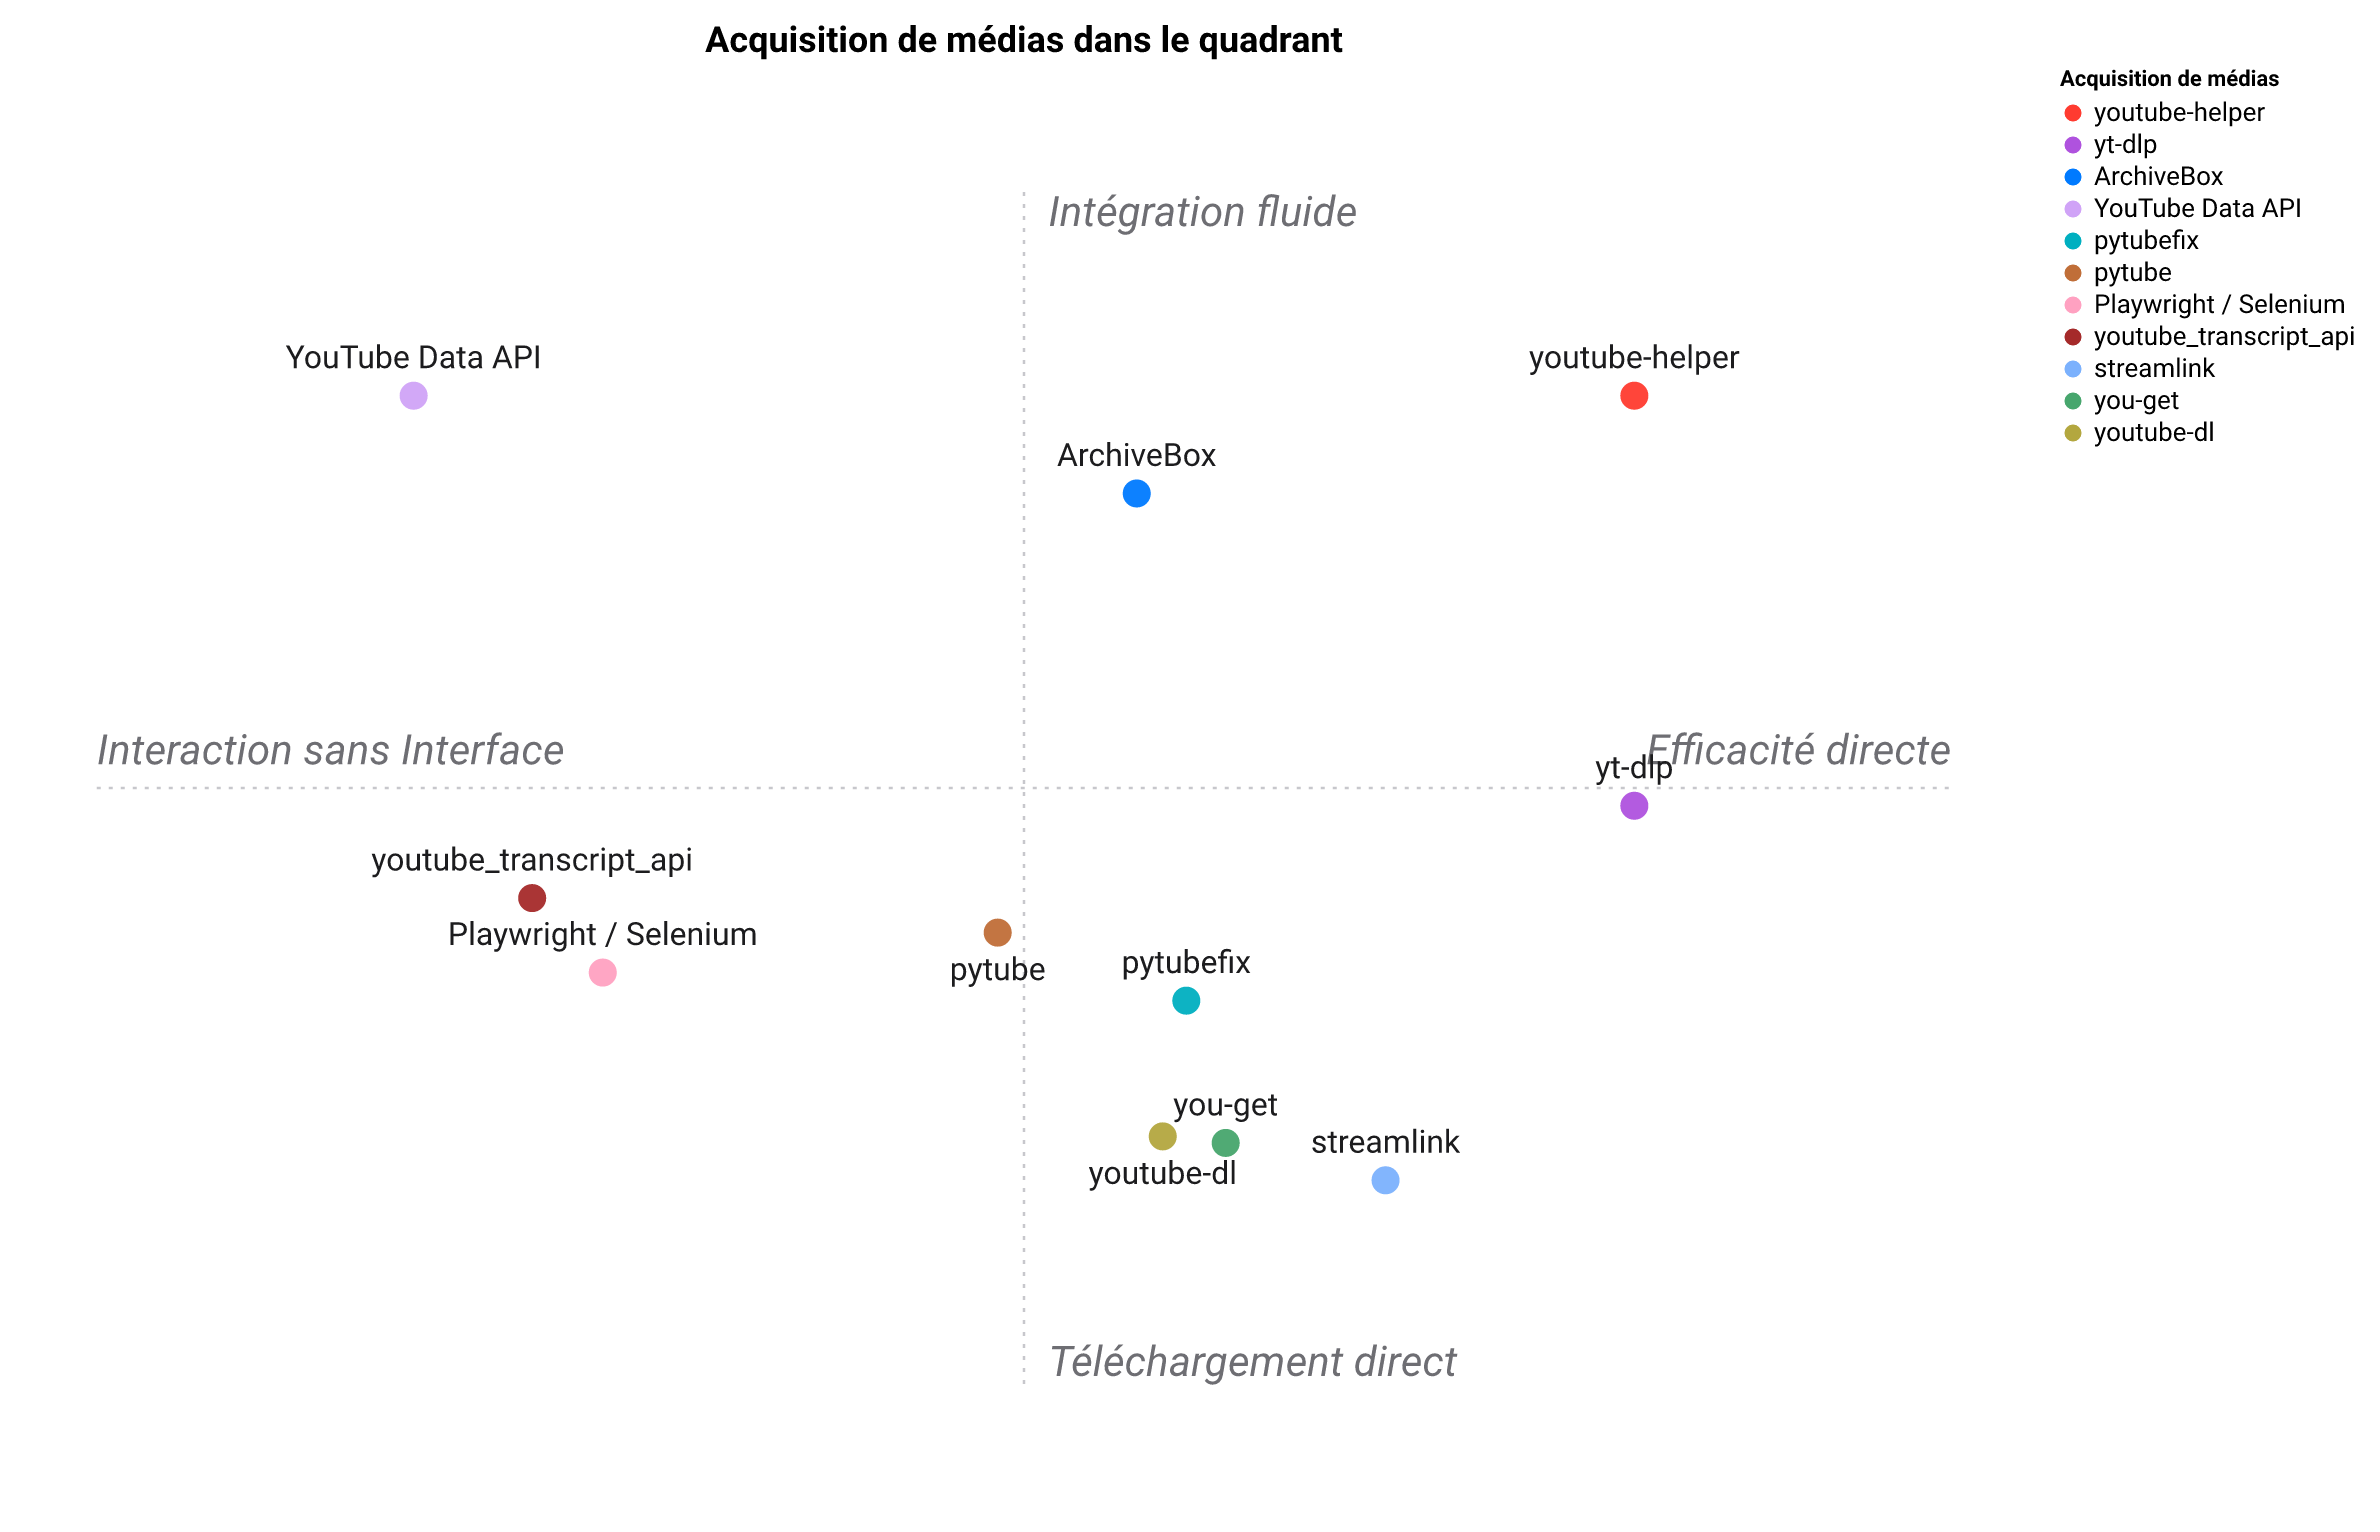
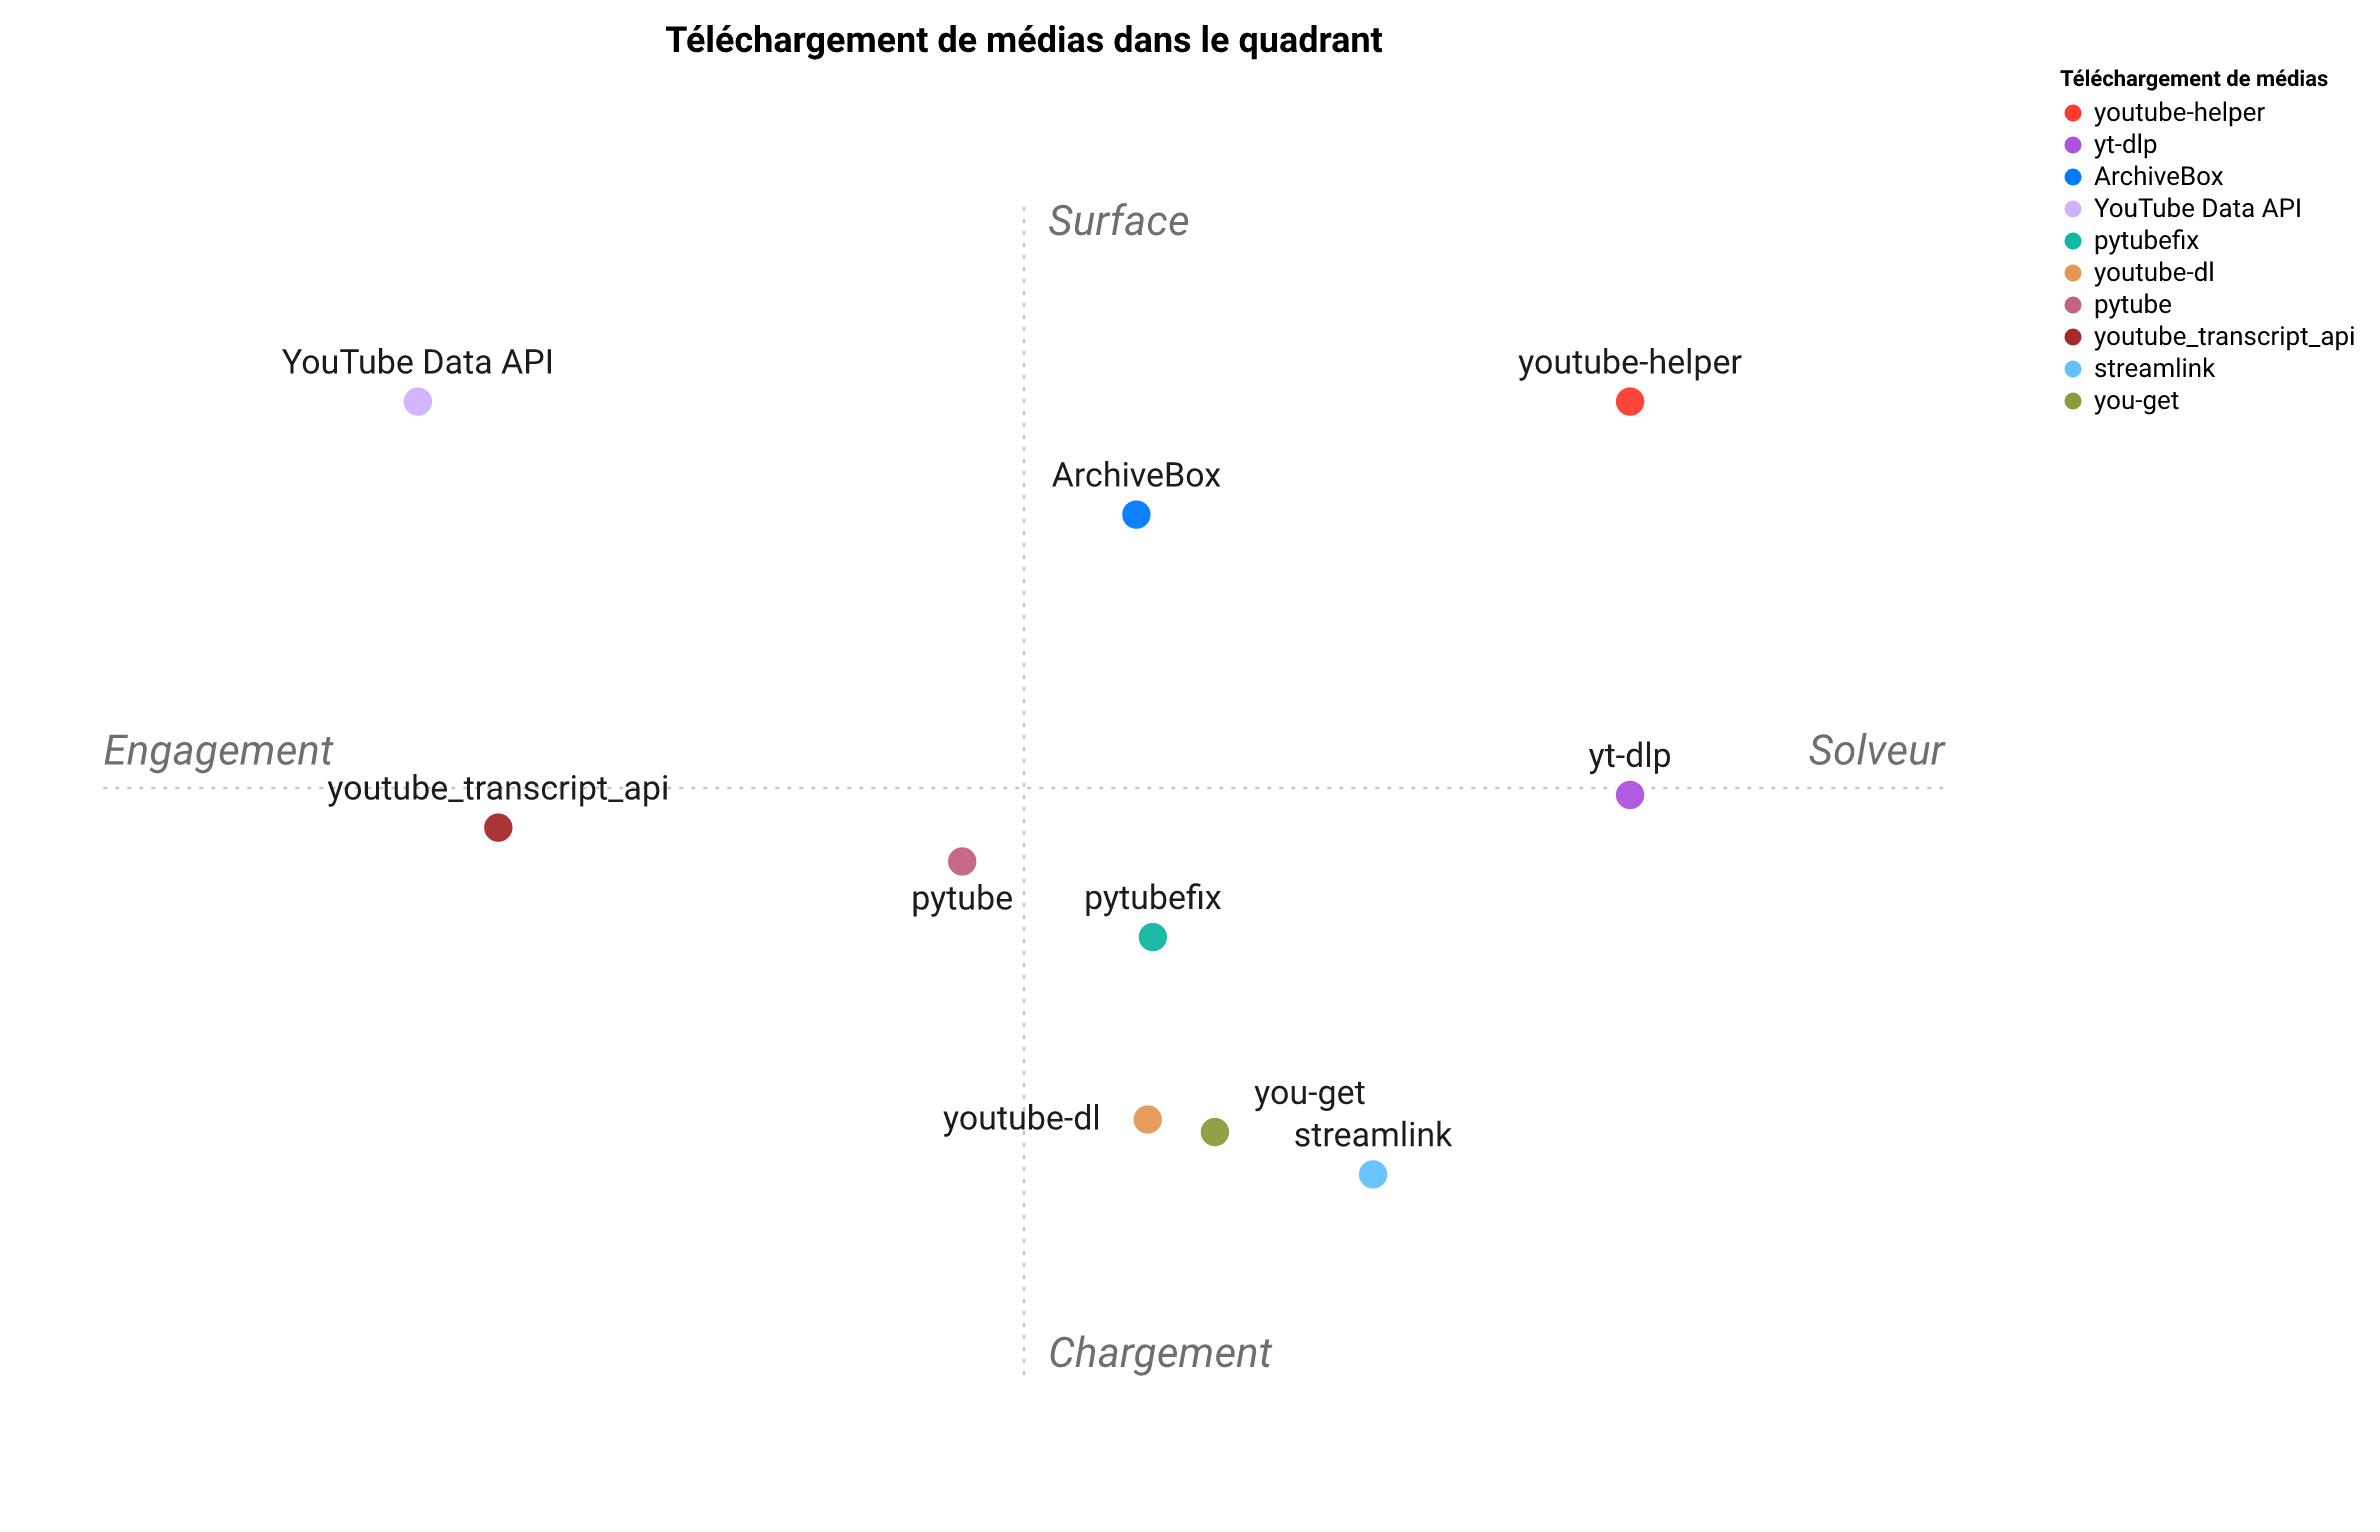
Landscape: simplify star table, add positioning map (standpoint) + French PAYSAGE.md
- Simplify the LANDSCAPE.md comparison table: domain-labelled first column
  (Media Downloading), strip parenthetical star qualifiers, plain star glyph.
- Add a PCA positioning map (generated with standpoint) with a short analysis
  in assets/landscape.png, below the table.
- Add PAYSAGE.md, the French mirror, with its own French map (assets/paysage.png).
- Integer source tables (assets/*.csv) are gitignored and regenerated.
- README/LISEZMOI mention the positioning map; LISEZMOI links PAYSAGE.md.

diff --git a/LANDSCAPE.md b/LANDSCAPE.md
@@ -13,7 +13,7 @@ score just reflects fit to *this* niche.
 
 ## At a glance
 
-| Media Acquisition | Multi-platform | Media download | Direct-URL resolver | Stream picker | No-API engagement | Multi-surface | Docker-ready | AI-pipeline ergonomics |
+| Media Downloading | Multi-platform | Media download | Direct-URL resolver | Stream picker | No-API engagement | Multi-surface | Docker-ready | AI-pipeline ergonomics |
 | --- | :---: | :---: | :---: | :---: | :---: | :---: | :---: | :---: |
 | **youtube-helper** | ⭐⭐⭐⭐⭐ | ⭐⭐⭐⭐⭐ | ⭐⭐⭐⭐⭐ | ⭐⭐⭐⭐⭐ | ⭐⭐⭐⭐⭐ | ⭐⭐⭐⭐⭐ | ⭐⭐⭐⭐⭐ | ⭐⭐⭐⭐⭐ |
 | yt-dlp | ⭐⭐⭐⭐⭐ | ⭐⭐⭐⭐⭐ | ⭐⭐⭐⭐ | ⭐⭐⭐ | ⭐⭐⭐ | ⭐⭐ | ⭐⭐⭐ | ⭐⭐⭐ |
@@ -21,7 +21,6 @@ score just reflects fit to *this* niche.
 | pytube | ⭐ | ⭐⭐⭐ | ⭐⭐ | ⭐⭐⭐ | ⭐⭐ | ⭐⭐ | ⭐⭐ | ⭐⭐⭐ |
 | pytubefix | ⭐ | ⭐⭐⭐⭐ | ⭐⭐⭐ | ⭐⭐⭐ | ⭐⭐ | ⭐⭐ | ⭐⭐ | ⭐⭐⭐ |
 | YouTube Data API | ⭐ | ⭐ | ⭐ | ⭐ | ⭐⭐⭐⭐⭐ | ⭐⭐ | ⭐⭐⭐ | ⭐⭐ |
-| Playwright / Selenium | ⭐⭐⭐ | ⭐⭐ | ⭐ | ⭐ | ⭐⭐⭐ | ⭐⭐ | ⭐⭐ | ⭐ |
 | you-get | ⭐⭐⭐⭐ | ⭐⭐⭐⭐ | ⭐⭐⭐ | ⭐⭐ | ⭐⭐ | ⭐⭐ | ⭐⭐ | ⭐⭐ |
 | streamlink | ⭐⭐⭐⭐ | ⭐⭐⭐ | ⭐⭐⭐⭐⭐ | ⭐⭐ | ⭐ | ⭐⭐ | ⭐⭐⭐ | ⭐⭐ |
 | youtube_transcript_api | ⭐ | ⭐ | ⭐ | ⭐ | ⭐⭐ | ⭐⭐ | ⭐⭐ | ⭐⭐⭐ |
@@ -29,15 +28,11 @@ score just reflects fit to *this* niche.
 
 ## Positioning map
 
-A PCA of the table above, projected onto two readable axes. The reference is rotated to the top-right; higher and further right is stronger on these dimensions.
+2D representation of the table above.
 
 ![Positioning map](https://raw.githubusercontent.com/warith-harchaoui/youtube-helper/main/assets/landscape.png)
 
-The positioning map organizes tools along two dimensions: horizontal simplicity to integration, reflecting ease of use versus system compatibility, and vertical direct access to versatility, indicating straightforward functionality versus adaptability. The reference 'youtube-helper' occupies the top-right quadrant, balancing high versatility and integration, which aligns with its status as the top performer. Tools like yt-dlp cluster near the upper range of versatility, emphasizing innovation, while ArchiveBox sits toward the middle of the vertical axis, highlighting its focus on trustworthiness over broad integration. The leaderboard reveals a concentration of top tools in the upper-right, where versatility and integration converge, but also highlights distinct clusters: innovative tools in the upper-middle, trustworthy options in the middle-right, and simpler, more direct solutions toward the lower ends. This distribution underscores trade-offs between ease of use, adaptability, and specialized strengths across the toolset.
-
-- **Horizontal — Simplicity ↔ Integration** (58% of variance)
-- **Vertical — Direct Access ↔ Versatility** (21% of variance)
-
+The map is a 2-D summary of the eight criteria, so read it as a shape, not a scoreboard. `youtube-helper` is at the top-right corner. The axes read **Horizontal — Engagement ↔ Resolver** and **Vertical — Download ↔ Surface**.
 
 ## Positioning
 
@@ -81,8 +76,6 @@ the hood). What it adds:
 - **YouTube Data API** — you need canonical view / like / subscriber
   counts, retention / analytics data, or you are already paying the
   OAuth + quota cost.
-- **Playwright / Selenium** — the site does not expose an extractor and
-  you need to scrape the rendered page.
 - **`you-get`** — a broad multi-site downloader when yt-dlp is not an
   option; coverage is wide but below yt-dlp.
 - **`streamlink`** — live-first workflow; you want to hand a live URL

diff --git a/PAYSAGE.md b/PAYSAGE.md
@@ -14,7 +14,7 @@ torrent) n'est pas pénalisé — la note reflète seulement l'adéquation à
 
 ## En un coup d'œil
 
-| Acquisition de médias | Multi-plateforme | Téléchargement média | Résolveur d'URL directe | Sélecteur de flux | Engagement sans API | Multi-surface | Prêt pour Docker | Ergonomie pipeline IA |
+| Téléchargement de médias | Multi-plateforme | Téléchargement média | Résolveur d'URL directe | Sélecteur de flux | Engagement sans API | Multi-surface | Prêt pour Docker | Ergonomie pipeline IA |
 | --- | :---: | :---: | :---: | :---: | :---: | :---: | :---: | :---: |
 | **youtube-helper** | ⭐⭐⭐⭐⭐ | ⭐⭐⭐⭐⭐ | ⭐⭐⭐⭐⭐ | ⭐⭐⭐⭐⭐ | ⭐⭐⭐⭐⭐ | ⭐⭐⭐⭐⭐ | ⭐⭐⭐⭐⭐ | ⭐⭐⭐⭐⭐ |
 | yt-dlp | ⭐⭐⭐⭐⭐ | ⭐⭐⭐⭐⭐ | ⭐⭐⭐⭐ | ⭐⭐⭐ | ⭐⭐⭐ | ⭐⭐ | ⭐⭐⭐ | ⭐⭐⭐ |
@@ -22,7 +22,6 @@ torrent) n'est pas pénalisé — la note reflète seulement l'adéquation à
 | pytube | ⭐ | ⭐⭐⭐ | ⭐⭐ | ⭐⭐⭐ | ⭐⭐ | ⭐⭐ | ⭐⭐ | ⭐⭐⭐ |
 | pytubefix | ⭐ | ⭐⭐⭐⭐ | ⭐⭐⭐ | ⭐⭐⭐ | ⭐⭐ | ⭐⭐ | ⭐⭐ | ⭐⭐⭐ |
 | YouTube Data API | ⭐ | ⭐ | ⭐ | ⭐ | ⭐⭐⭐⭐⭐ | ⭐⭐ | ⭐⭐⭐ | ⭐⭐ |
-| Playwright / Selenium | ⭐⭐⭐ | ⭐⭐ | ⭐ | ⭐ | ⭐⭐⭐ | ⭐⭐ | ⭐⭐ | ⭐ |
 | you-get | ⭐⭐⭐⭐ | ⭐⭐⭐⭐ | ⭐⭐⭐ | ⭐⭐ | ⭐⭐ | ⭐⭐ | ⭐⭐ | ⭐⭐ |
 | streamlink | ⭐⭐⭐⭐ | ⭐⭐⭐ | ⭐⭐⭐⭐⭐ | ⭐⭐ | ⭐ | ⭐⭐ | ⭐⭐⭐ | ⭐⭐ |
 | youtube_transcript_api | ⭐ | ⭐ | ⭐ | ⭐ | ⭐⭐ | ⭐⭐ | ⭐⭐ | ⭐⭐⭐ |
@@ -30,15 +29,11 @@ torrent) n'est pas pénalisé — la note reflète seulement l'adéquation à
 
 ## Carte de positionnement
 
-Une ACP du tableau ci-dessus, projetée sur deux axes lisibles. La référence est placée en haut à droite ; plus on va vers le haut et la droite, plus l'outil est fort sur ces dimensions.
+Représentation 2D du tableau ci-dessus.
 
 ![Carte de positionnement](https://raw.githubusercontent.com/warith-harchaoui/youtube-helper/main/assets/paysage.png)
 
-La carte positionne les outils selon un axe horizontal allant d'une interaction minimale sans interface à une efficacité directe, et un axe vertical variant du téléchargement immédiat à une intégration fluide. La référence **youtube-helper** se situe en haut à droite, où l'efficacité et l'intégration sont maximisées, confirmant son statut de meilleur outil. **yt-dlp** se distingue par son innovation, positionné vers la droite, tandis que **ArchiveBox** incarne la fiabilité, proche de la zone haute. Les outils comme **streamlink** et **pytubefix** occupent des positions intermédiaires, reflétant un équilibre entre performance et adaptabilité. Le classement global met en avant une progression de la fiabilité à l'innovation, avec **youtube-helper** en tête, suivi de **yt-dlp** et **ArchiveBox**, soulignant une tendance vers des solutions plus intégrées et fiables.
-
-- **Horizontal — Interaction sans Interface ↔ Efficacité directe** (58% de variance)
-- **Vertical — Téléchargement direct ↔ Intégration fluide** (21% de variance)
-
+La carte est un résumé en 2D des 8 critères : à lire comme une forme, pas comme un classement. « youtube-helper » se situe dans le coin en haut à droite. Les axes se lisent **Horizontal — Engagement ↔ Solveur** et **Vertical — Chargement ↔ Surface**.
 
 ## Positionnement
 
@@ -86,8 +81,6 @@ apporte :
 - **API YouTube Data** — vous avez besoin des compteurs canoniques de
   vues / likes / abonnés, de données de rétention / d'analytics, ou vous
   payez déjà le coût OAuth + quota.
-- **Playwright / Selenium** — le site n'expose pas d'extracteur et vous
-  devez scraper la page rendue.
 - **`you-get`** — un téléchargeur multi-sites large quand yt-dlp n'est pas
   envisageable ; la couverture est vaste mais inférieure à yt-dlp.
 - **`streamlink`** — flux de travail orienté direct ; vous voulez passer

diff --git a/LISEZMOI.md b/LISEZMOI.md
@@ -23,6 +23,8 @@ Elle supporte également les tâches de post-traitement comme la conversion ou l
 
 [💻 Documentation](https://harchaoui.org/warith/ai-helpers/docs/youtube-helper-doc/)
 
+[🗺️ Paysage](https://github.com/warith-harchaoui/youtube-helper/blob/main/PAYSAGE.md)
+
 [📋 Exemples](https://github.com/warith-harchaoui/youtube-helper/blob/main/EXAMPLES.md)
 
 ## Installation

diff --git a/README.md b/README.md
@@ -23,6 +23,8 @@ It also supports post-processing tasks such as converting or merging media files
 
 [💻 Documentation](https://harchaoui.org/warith/ai-helpers/docs/youtube-helper-doc/)
 
+[🗺️ Landscape](https://github.com/warith-harchaoui/youtube-helper/blob/main/LANDSCAPE.md)
+
 [📋 Examples](https://github.com/warith-harchaoui/youtube-helper/blob/main/EXAMPLES.md)
 
 ## Installation